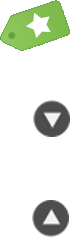
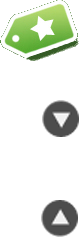
Automated commit

diff --git a/css/walk.less b/css/walk.less
@@ -1,10 +1,6 @@
 .horizontal-gradient(@left, @right) {
     background: @left; /* Old browsers */
-    background: -moz-linear-gradient(left,  @left 0%, @right 100%); /* FF3.6+ */
-    background: -webkit-gradient(linear, left top, right top, color-stop(0%,@left), color-stop(100%,@right)); /* Chrome,Safari4+ */
     background: -webkit-linear-gradient(left, @left 0%,@right 100%); /* Chrome10+,Safari5.1+ */
-    background: -o-linear-gradient(left,  @left 0%,@right 100%); /* Opera 11.10+ */
-    background: -ms-linear-gradient(left,  @left 0%,@right 100%); /* IE10+ */
     background: linear-gradient(to right,  @left 0%,@right 100%); /* W3C */
 }
 
@@ -36,20 +32,20 @@
             font-size:25px;
             .drop-shadow();
 
-            span {
+            span span {
                 display:block;
                 background-image: url("../img/walk-icons.png");
                 background-position: right -90px;
                 background-repeat: no-repeat;
-                background-size: 35px 118px;
+                background-size: 40px 119px;
             }
 
-            &.open span {
+            &.open span span {
                 display:block;
                 background-image: url("../img/walk-icons.png");
                 background-repeat: no-repeat;
                 background-position: right -41px;
-                background-size: 35px 118px;
+                background-size: 40px 119px;
             }
 
             &.dont-miss {
@@ -64,16 +60,26 @@
                 width: 0;
                 height: 0;
                 margin-top: -0.7em;
-                margin-left:-40px;
+                margin-left:-50px;
                 border-top: 1.5em solid transparent;
                 border-left: 1.5em solid #e5dfbd;
                 border-bottom: 1.5em solid transparent;
             }
 
-            &.offers{
-                background: #60a443;
+            &.offers {
+                background: #44762f;
                 .horizontal-gradient(#44762f, #8abe74);
             }
+
+            &.offers > span {
+                display:block;
+                padding-left:50px;
+                background-image: url("../img/walk-icons.png");
+                background-repeat: no-repeat;
+                background-position: left 5px;
+                background-size: 40px 119px;
+            }
+
 
             &.before-you-go {
                 background: #999966;

diff --git a/build-html.js b/build-html.js
@@ -134,7 +134,7 @@ function resolve_includes(html, using_includes_directory){
             data = fs.readFileSync(include_path).toString();
             if(special_includes.indexOf(include_filename) !== -1) {
                 basename = path.basename(include_filename, ".mustache");
-                data = '<!-- included from build-html.js. Just search for this string --><h2 class="walk-detail-header ' + basename.toId() + '"><span>' + basename.toCased() + '</span></h2><div class="walk-detail">' + data + "</div>";
+                data = '<!-- included from build-html.js. Just search for this string --><h2 class="walk-detail-header ' + basename.toId() + '"><span><span>' + basename.toCased() + '</span></span></h2><div class="walk-detail">' + data + "</div>";
             }
             return data;
         });

diff --git a/javascript/walk.js b/javascript/walk.js
@@ -5,6 +5,8 @@
         $(".walk-detail-header").click(function(){
             $(this).toggleClass("open").next(".walk-detail").slideToggle();
         });
+
+        $(".dont-miss").click();
     };
 
     if (navigator.userAgent.match(/(iPhone|iPod|iPad|Android|BlackBerry)/)) {
